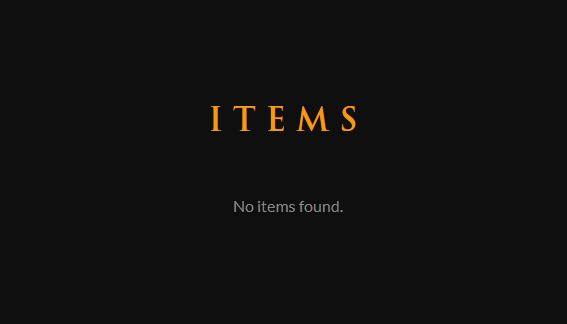
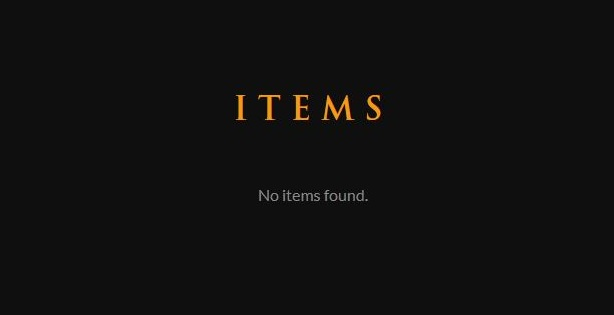
add id routes; update dota service; get more hero details from api

Changed region(s): [[0.3598, 0.2857, 0.6296, 0.4286], [0.3898, 0.6, 0.5996, 0.6571]]

diff --git a/src/service/dota2/dota2.service.ts b/src/service/dota2/dota2.service.ts
@@ -5,7 +5,8 @@ import { inject } from '@angular/core';
 import { addDoc, collection, getDocs, query, where, Firestore } from '@angular/fire/firestore';
 import { signal } from '@angular/core';
 import { HttpClient } from '@angular/common/http';
-import { Observable } from 'rxjs';
+import { map, Observable } from 'rxjs';
+import { Hero } from '../../components/heroes/hero-details/hero-details.model';
 
 @Injectable({
     providedIn: 'root',
@@ -14,21 +15,52 @@ export class DotaService {
     private apiUrl = 'https://api.opendota.com/api';
     private cdnCloudflareUrl = 'https://cdn.cloudflare.steamstatic.com';
     private cdnAkamaiUrl = 'https://steamcdn-a.akamaihd.net';
+    private heroesPath = '/constants/heroes';
+    private loresPath = '/constants/hero_lore';
+    private itemsPath = '/constants/items';
+    private heroAbilitiesPath = '/constants/hero_abilities';
 
     constructor(private http: HttpClient) { }
 
     getHeroes(): Observable<any> {
-        return this.http.get(`${this.apiUrl}/heroes`);
-    }
-
-    getItems(): Observable<any> {
-        return this.http.get(`${this.apiUrl}/constants/items`);
+        return this.http.get(`${this.apiUrl}${this.heroesPath}`);
     }
 
     getHeroImage(heroName: string): string {
         const formattedName = heroName.replace('npc_dota_hero_', '');
         return this.getHeroImageCdnUrl("cloudflare", formattedName);
     }
+
+    getHeroDetails(heroId: string): Observable<Hero | undefined> {
+        return this.http
+            .get<Hero[]>(`${this.apiUrl}${this.heroesPath}`)
+            .pipe(map(heroes => {
+                return Object.values(heroes).find(hero => hero.id === parseInt(heroId));
+            })
+            );
+    }
+
+    getHeroLore(heroName: string): Observable<string> {
+        const heroNameCut = heroName.replace('npc_dota_hero_', '');
+        const lores = `${this.apiUrl}${this.loresPath}`;
+        return this.http.get<{ [key: string]: string }>(lores).pipe(
+            map(lores => {
+                return lores[heroNameCut];
+            })
+        );
+    }
+
+    getHeroAbilities(heroName: string): Observable<string[]> {
+        const abilities = `${this.apiUrl}${this.heroAbilitiesPath}`;
+        return this.http.get<{ [key: string]: string[] }>(abilities).pipe(
+            map(lores => {
+                return Object.values(lores[heroName]);
+            })
+        );
+    }
+
+
+
 
     private getHeroImageCdnUrl(cdnProvider: 'cloudflare' | 'akamaihd', heroName: string): string {
         const cdnUrls = {
@@ -39,10 +71,11 @@ export class DotaService {
         return `${cdnUrls[cdnProvider].replace('name', heroName)}`;
     }
 
+    getItems(): Observable<any> {
+        return this.http.get(`${this.apiUrl}${this.itemsPath}`);
+    }
+
     getItemImage(imgUrl: string): string {
         return `${this.cdnCloudflareUrl}${imgUrl}`;
     }
-
-
-
 }

diff --git a/src/components/heroes/hero-details/hero-details.component.html b/src/components/heroes/hero-details/hero-details.component.html
@@ -1,1 +1,65 @@
-<p>hero-details works!</p>
+<div *ngIf="hero" class="hero-details">
+    <div class="hero-header">
+        <h2 class="hero-name">{{ hero.localized_name }}</h2>
+        <img [src]="getHeroImage(hero.name)" alt="{{ hero.name }}" class="hero-image" />
+    </div>
+
+    <div class="hero-main-info">
+        <div class="hero-stats">
+            <h3>Stats</h3>
+            <ul>
+                <li><strong>Primary Attribute:</strong> {{ hero.primary_attr }}</li>
+                <li><strong>Base Health:</strong> {{ hero.base_health }} + {{ hero.base_health_regen }}</li>
+                <li><strong>Base Mana:</strong> {{ hero.base_mana }} + {{ hero.base_mana_regen }}</li>
+                <li><strong>Attack Damage:</strong> {{ hero.base_attack_min }} - {{ hero.base_attack_max }}</li>
+                <li><strong>Attack Range:</strong> {{ hero.attack_range }}</li>
+                <li><strong>Attack Rate:</strong> {{ hero.attack_rate }}</li>
+                <li><strong>Armor:</strong> {{ hero.base_armor }}</li>
+            </ul>
+        </div>
+
+        <div class="hero-roles">
+            <h3>Roles</h3>
+            <ul>
+                <li *ngFor="let role of hero.roles">{{ role }}</li>
+            </ul>
+        </div>
+    </div>
+
+    <div class="hero-secondary-info">
+        <div class="hero-attributes">
+            <h3>Attributes</h3>
+            <ul>
+                <li><strong>Strength:</strong> {{ hero.base_str }} + {{ hero.str_gain }}</li>
+                <li><strong>Agility:</strong> {{ hero.base_agi }} + {{ hero.agi_gain }}</li>
+                <li><strong>Intelligence:</strong> {{ hero.base_int }} + {{ hero.int_gain }}</li>
+            </ul>
+        </div>
+        <div class="hero-mobility">
+            <h3>Mobility</h3>
+            <ul>
+                <li><strong>Move Speed:</strong> {{ hero.move_speed }}</li>
+                <li><strong>Legs:</strong> {{ hero.legs }}</li>
+                <li><strong>Day Vision:</strong> {{ hero.day_vision }}</li>
+                <li><strong>Night Vision:</strong> {{ hero.night_vision }}</li>
+            </ul>
+        </div>
+    </div>
+
+    <div class="hero-skills">
+        <h3>Abilities</h3>
+        <div *ngFor="let skill of heroAbilities" class="skill">
+            <!-- <img [src]="skill.icon" alt="{{ skill.name }} icon" /> -->
+            <div>
+                <h3>{{skill}}</h3>
+                <!-- <h4>{{ skill.name }}</h4>
+                <p>{{ skill.description }}</p> -->
+            </div>
+        </div>
+    </div>
+
+    <div class="hero-lore">
+        <h3>Lore</h3>
+        <p>{{ heroLore }}</p>
+    </div>
+</div>

diff --git a/src/components/heroes/hero-details/hero-details.component.ts b/src/components/heroes/hero-details/hero-details.component.ts
@@ -1,20 +1,60 @@
 import { Component } from '@angular/core';
 import { Title } from '@angular/platform-browser';
 import { titles } from '../../../config/titles';
+import { Hero } from './hero-details.model';
+import { ActivatedRoute } from '@angular/router';
+import { DotaService } from '../../../service/dota2/dota2.service';
+import { CommonModule } from '@angular/common';
 
 @Component({
   selector: 'app-hero-details',
   standalone: true,
-  imports: [],
+  imports: [CommonModule],
   templateUrl: './hero-details.component.html',
   styleUrl: './hero-details.component.scss'
 })
 export class HeroDetailsComponent {
+  hero: Hero | undefined;
+  heroLore: string = '';
+  heroAbilities: string[] = []
+  heroFacets: string[] = []
+
   constructor(
-    private titleService: Title
+    private titleService: Title,
+    private route: ActivatedRoute,
+    private dotaService: DotaService
   ) { }
 
   ngOnInit(): void {
     this.titleService.setTitle(titles.HeroDetails);
+
+    const heroId = this.route.snapshot.paramMap.get('id');
+
+    if (heroId) {
+      this.dotaService.getHeroDetails(heroId).subscribe(data => {
+
+        this.hero = data;
+
+        const heroName: string | undefined = data?.name;
+
+        if (heroName) {
+          this.dotaService.getHeroAbilities(heroName).subscribe(abilities => {
+            this.heroAbilities = [abilities[0]];
+            this.heroFacets = [abilities[2]]
+            // console.log(this.heroAbilities);
+            // console.log(this.heroFacets);
+          })
+
+          this.dotaService.getHeroLore(heroName).subscribe(lore => {
+            this.heroLore = lore;
+            // console.log(this.heroLore);
+          });
+        }
+      });
+    }
+  }
+
+  getHeroImage(name: string): string {
+    return this.dotaService.getHeroImage(name)
   }
 }

diff --git a/src/app/app-routing.module.ts b/src/app/app-routing.module.ts
@@ -9,17 +9,23 @@ import { LoginComponent } from '../components/login/login.component';
 import { RegisterComponent } from '../components/register/register.component';
 import { HeroBuildsComponent } from '../components/hero-builds/hero-builds.component';
 import { NotFoundComponent } from '../components/not-found/not-found.component';
+import { HeroDetailsComponent } from '../components/heroes/hero-details/hero-details.component';
+import { ItemDetailsComponent } from '../components/items/item-details/item-details.component';
+import { BuildDetailsComponent } from '../components/hero-builds/build-details/build-details.component';
 
 const routes: Routes = [
     { path: '', component: HomeComponent },
     { path: 'heroes', component: HeroesComponent },
+    { path: 'heroes/:id', component: HeroDetailsComponent },
     { path: 'items', component: ItemsComponent },
+    { path: 'items/:id', component: ItemDetailsComponent },
     { path: 'builds', component: HeroBuildsComponent },
+    { path: 'builds/:id', component: BuildDetailsComponent },
     { path: 'build-creator', component: BuildCreatorComponent },
     { path: 'profile', component: ProfileComponent },
     { path: 'login', component: LoginComponent },
     { path: 'register', component: RegisterComponent },
-    { path: '**', component:NotFoundComponent }
+    { path: '**', component: NotFoundComponent }
 ];
 
 @NgModule({

diff --git a/src/components/heroes/hero-details/hero-details.model.ts b/src/components/heroes/hero-details/hero-details.model.ts
@@ -1,0 +1,42 @@
+export interface Hero {
+    id: number,
+    name: string,
+    primary_attr: string,
+    attack_type: string,
+    roles: [],
+    img: string,
+    icon: string,
+    base_health: number,
+    base_health_regen: number,
+    base_mana: number,
+    base_mana_regen: number,
+    base_armor: number,
+    base_mr: number,
+    base_attack_min: number,
+    base_attack_max: number,
+    base_str: number,
+    base_agi: number,
+    base_int: number,
+    str_gain: number,
+    agi_gain: number,
+    int_gain: number,
+    attack_range: number,
+    projectile_speed: number,
+    attack_rate: number,
+    base_attack_time: number,
+    attack_point: number,
+    move_speed: number,
+    turn_rate: null,
+    cm_enabled: true,
+    legs: number,
+    day_vision: number,
+    night_vision: number,
+    localized_name: string
+}
+
+export interface Abilities {
+    name: string
+    behavior: string,
+    description: string,
+    img: string
+}

diff --git a/src/components/heroes/heroes.component.ts b/src/components/heroes/heroes.component.ts
@@ -3,11 +3,12 @@ import { Component } from '@angular/core';
 import { Title } from '@angular/platform-browser';
 import { titles } from '../../config/titles';
 import { DotaService } from '../../service/dota2/dota2.service';
+import { RouterModule } from '@angular/router';
 
 @Component({
   selector: 'app-heroes',
   standalone: true,
-  imports: [CommonModule],
+  imports: [CommonModule, RouterModule],
   templateUrl: './heroes.component.html',
   styleUrls: ['./heroes.component.scss']
 })
@@ -23,8 +24,12 @@ export class HeroesComponent {
     this.titleService.setTitle(titles.Heroes);
 
     this.dotaService.getHeroes().subscribe((data) => {
-      this.heroes = data;
-      console.log(this.heroes);
+      if (data && typeof data === 'object') {
+        this.heroes = Object.values(data);
+      } else {
+        this.heroes = [];
+      }
+      // console.log(this.heroes);
     })
   }
 

diff --git a/src/components/heroes/heroes.component.html b/src/components/heroes/heroes.component.html
@@ -2,7 +2,7 @@
     <h2 class="heroes-title">Heroes</h2>
 
     <div class="found-heroes" *ngIf="heroes && heroes.length > 0">
-        <div class="hero-thumb" *ngFor="let hero of heroes">
+        <div [routerLink]="['/heroes', hero.id]" class="hero-thumb" *ngFor="let hero of heroes">
             <img [src]="getHeroImage(hero.name)" alt="{{ hero.localized_name }}" />
             <p>{{ hero.localized_name }}</p>
         </div>

diff --git a/src/components/items/items.component.ts b/src/components/items/items.component.ts
@@ -28,7 +28,7 @@ export class ItemsComponent {
       } else {
         this.items = [];
       }
-      console.log(this.items);
+      // console.log(this.items);
     });
   }
 

diff --git a/README.md b/README.md
@@ -21,14 +21,12 @@ GUESTS:
 Home
 ![Home](./public/readme/home.jpg)
 
-<!-- The Game
-![About](./public/readme/about.jpg) -->
-
 Dota Heroes
 ![Dota heroes](./public/readme/heroes.jpg)
 
 Hero Details
 ![Hero Details](./public/readme/heroDetails.jpg)
+
 
 Dota Items
 ![Dota items](./public/readme/items.jpg)
@@ -41,6 +39,12 @@ Builds
 
 Build Details
 ![Build Details](./public/readme/buildDetails.jpg)
+
+No items
+![No Items](./public/readme/no-items.jpg)
+
+No heroes
+![No Heroes](./public/readme/no-heroes.jpg)
 
 404 - Not Found
 ![Not Found](./public/readme/404.jpg)
